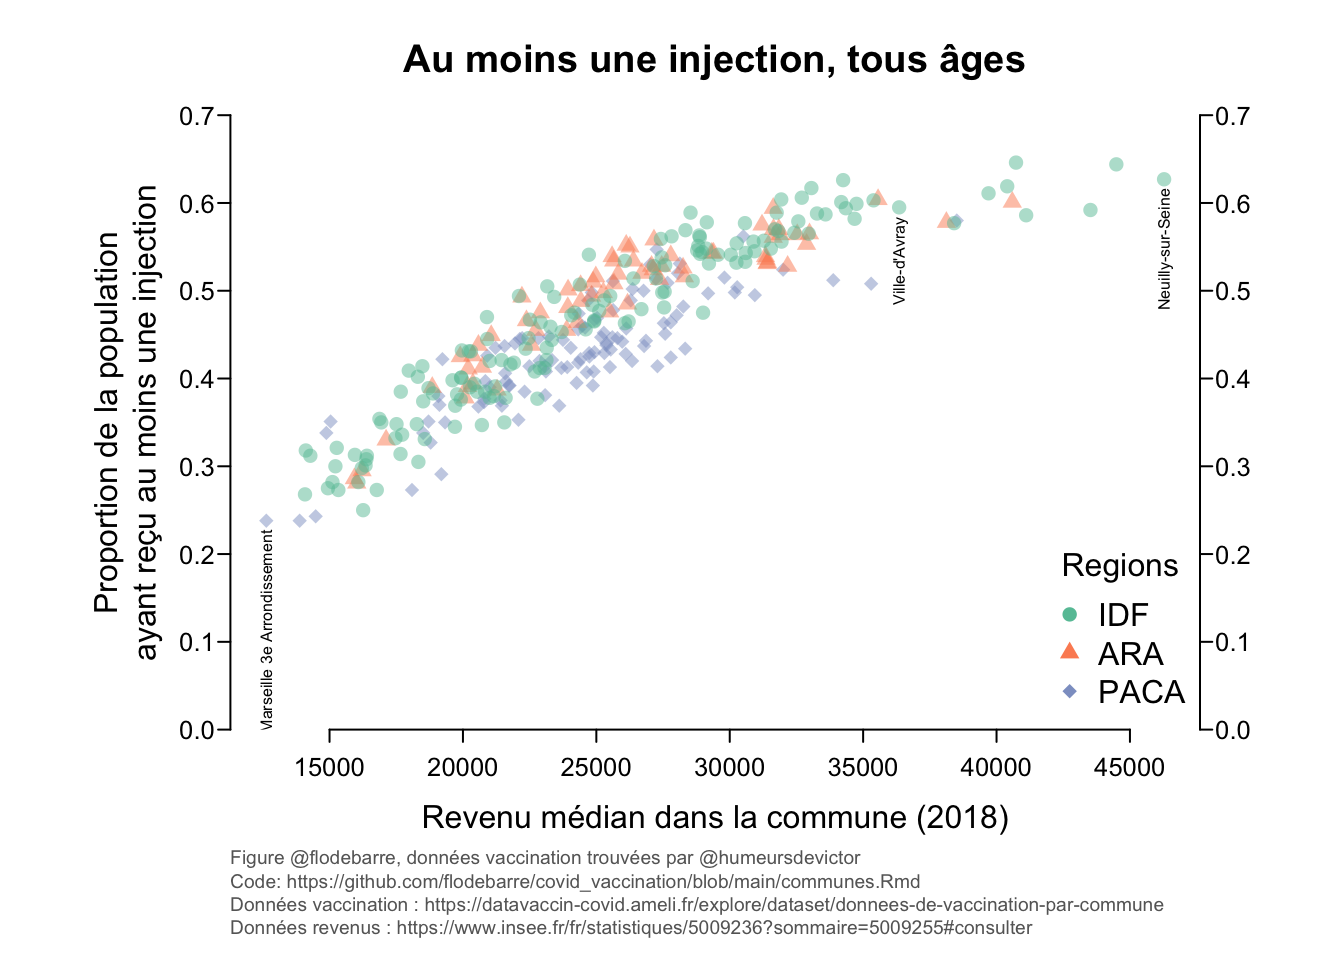
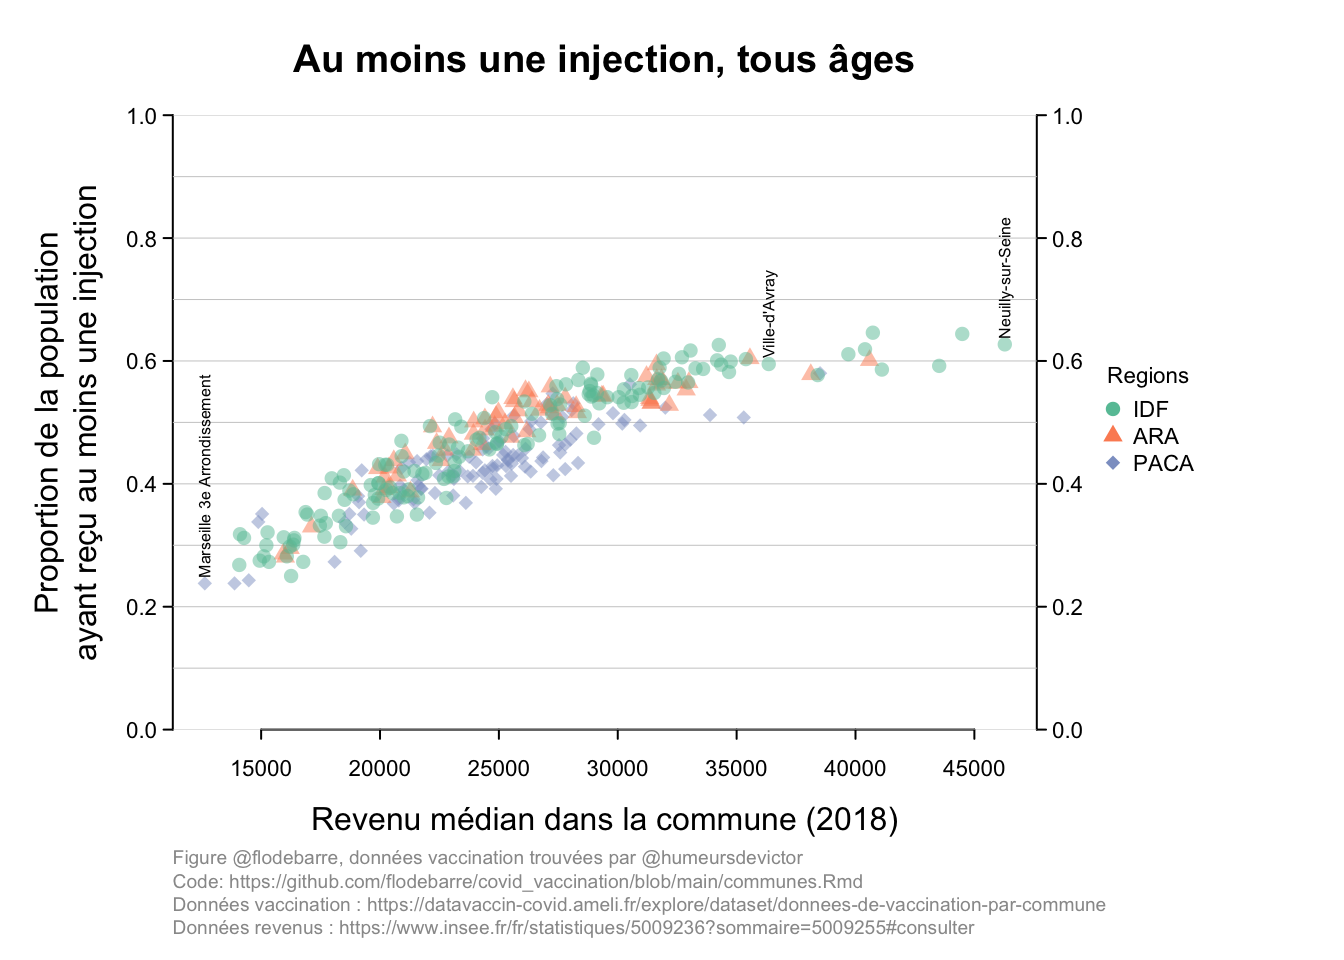
tweaks for better viz

diff --git a/communes.html b/communes.html
@@ -488,34 +488,57 @@ ndt.noregion$prdFin &lt;- predict(mdlFin.noregion, newdata = newdata.noregion, t
 </div>
 <div id="plot" class="section level2">
 <h2>Plot</h2>
-<pre class="r"><code>marWithDetails &lt;- c(6, 6, 3, 6.75)
+<pre class="r"><code>marWithDetails &lt;- c(6, 4.5, 3, 8)
 
 textDetails &lt;- &quot;Figure @flodebarre, données vaccination trouvées par @humeursdevictor
 Code: https://github.com/flodebarre/covid_vaccination/blob/main/communes.Rmd
 Données vaccination : https://datavaccin-covid.ameli.fr/explore/dataset/donnees-de-vaccination-par-commune
 Données revenus : https://www.insee.fr/fr/statistiques/5009236?sommaire=5009255#consulter&quot;</code></pre>
-<pre class="r"><code>cexA &lt;- 0.8</code></pre>
+<pre class="r"><code>cexA &lt;- 0.7 # Relative size of the tick labels
+
+thetck &lt;- -0.015 # tick size
+
+themgp &lt;- c(1.8, 0.4, 0) # mgp
+
+legx &lt;- 1.08*max(dat$med14_2018) # x position of the legend
+
+legy &lt;- 0.5
+
+cexleg &lt;- 0.7
+
+axpos &lt;- 0.99*min(dat$med14_2018) # xposition of the left axis</code></pre>
 <div id="tous-ages" class="section level3">
 <h3>Tous ages</h3>
 <pre class="r"><code>cla &lt;- &quot;Tout âge&quot;
-par(mar = marWithDetails - c(0, 0, 0, 3), las = 1, mgp = c(1.75, 0.4, 0), tck = -0.02)
+par(mar = marWithDetails, las = 1, mgp = themgp, tck = thetck)
 
-  subdat &lt;- dat[which(dat$libelle_classe_age == cla), ]
-  plot(subdat$med14_2018, subdat$taux_cumu_1_inj, 
-       ylim = c(0, 0.7), 
+subdat &lt;- dat[which(dat$libelle_classe_age == cla), ]
+
+# initialize plot
+plot(subdat$med14_2018, subdat$taux_cumu_1_inj, 
+       ylim = c(0, 1), 
        xlab = &quot;Revenu médian dans la commune (2018)&quot;, ylab = &quot;Proportion de la population
 ayant reçu au moins une injection&quot;, 
        yaxs = &quot;i&quot;, 
-       col = adjustcolor(colRegion[subdat$region], alpha.f = 0.5), 
-       pch = pchRegion[subdat$region],
-frame.plot = FALSE, axes = FALSE)
+frame.plot = FALSE, axes = FALSE, 
+type = &quot;n&quot;)
   axis(1, cex.axis = cexA)
   axis(2, cex.axis = cexA)
   axis(4, cex.axis = cexA)
   title(main = &quot;Au moins une injection, tous âges&quot;)
-  mtext(textDetails, side = 1, line = 4.5, cex = 0.6, adj = 0, col = gray(0.4))
-  legend(&quot;bottomright&quot;, legend = names(colRegion), col = colRegion, pch = pchRegion[names(colRegion)], bty = &quot;n&quot;, title = &quot;Regions&quot;)
+  mtext(textDetails, side = 1, line = 4.5, cex = 0.6, adj = 0, col = gray(0.6))
+par(xpd = FALSE)  
+for(i in seq(0, 1, by = 0.1)){
+  abline(h = i, lwd = 0.5, col = gray(0.8))
+}
   
+points(subdat$med14_2018, subdat$taux_cumu_1_inj, 
+              col = adjustcolor(colRegion[subdat$region], alpha.f = 0.5), 
+       pch = pchRegion[subdat$region],
+)
+  
+par(xpd = TRUE)
+legend(x = legx, y = legy, legend = names(colRegion), col = colRegion, pch = pchRegion[names(colRegion)], bty = &quot;n&quot;, title = &quot;Regions&quot;, xjust = 0, yjust = 0.5, cex = cexleg, pt.cex = 1)
   
 # Add legends
 x1 &lt;- max(dat$med14_2018)
@@ -529,15 +552,16 @@ x3 &lt;- unique(d3$med14_2018)
 
 dy &lt;- 0.01
 text(x = c(x1, x2, x3), 
-     y = c(as.numeric(d1[d1$classe_age == &quot;TOUT_AGE&quot;, &quot;taux_cumu_1_inj&quot;]), as.numeric(d2[d2$classe_age == &quot;TOUT_AGE&quot;, &quot;taux_cumu_1_inj&quot;]), as.numeric(d3[d3$classe_age == &quot;TOUT_AGE&quot;, &quot;taux_cumu_1_inj&quot;])) - dy, 
+     y = c(as.numeric(d1[d1$classe_age == &quot;TOUT_AGE&quot;, &quot;taux_cumu_1_inj&quot;]), as.numeric(d2[d2$classe_age == &quot;TOUT_AGE&quot;, &quot;taux_cumu_1_inj&quot;]), as.numeric(d3[d3$classe_age == &quot;TOUT_AGE&quot;, &quot;taux_cumu_1_inj&quot;])) + dy, 
      labels = c(d1[1, &quot;libelle_commune.x&quot;], d2[1, &quot;libelle_commune.x&quot;], d3[1, &quot;libelle_commune.x&quot;]), 
-     adj = c(1, 0.5), srt = 90, cex = 0.5)</code></pre>
+     adj = c(0, 0.5), srt = 90, cex = 0.5)</code></pre>
 <p><img src="communes_files/figure-html/unnamed-chunk-17-1.png" width="672" /></p>
+<pre class="r"><code>par(xpd = FALSE)  </code></pre>
 </div>
 <div id="au-moins-une-injection" class="section level3">
 <h3>Au moins une injection</h3>
 <p>(Pour faire les choses proprement il faudrait une boucle)</p>
-<pre class="r"><code>par(mar = marWithDetails, las = 1, mgp = c(1.75, 0.4, 0), tck = -0.02)
+<pre class="r"><code>par(mar = marWithDetails, las = 1, mgp = themgp, tck = thetck)
 alf &lt;- 0.4
 lwd.pred &lt;- 1.5
 
@@ -546,16 +570,17 @@ tmp &lt;- dat[which(dat$classe_age != &quot;TOUT_AGE&quot;),]
 
 plot(tmp$med14_2018, tmp$taux_cumu_1_inj, 
      xlab = &quot;Revenu médian dans la commune (2018)&quot;, ylab = &quot;Proportion de la classe d&#39;âge 
-ayant reçu au moins eu une injection&quot;, 
+ayant reçu au moins une injection&quot;, 
      yaxs = &quot;i&quot;, frame.plot = FALSE, ylim = c(0, 1),
      type = &quot;n&quot;, axes = FALSE
 )
 axis(1, cex.axis = cexA)
-axis(2, pos = 10200, cex.axis = cexA)
+axis(2, cex.axis = cexA)
 axis(4, cex.axis = cexA)
 
-par(xpd = FALSE)
 title(main = &quot;Au moins une injection, par classe d&#39;âge&quot;)
+
+par(xpd = FALSE)
 
 for(i in seq(0, 1, by = 0.1)){
   abline(h = i, lwd = 0.5, col = gray(0.8))
@@ -601,12 +626,13 @@ mns &lt;- aggregate(as.numeric(dat$taux_cumu_termine), by = list(dat$libelle_cla
 mns2 &lt;- mns[sort(mns$x, index.return = TRUE, decreasing = TRUE)$ix,]
 mns2 &lt;- mns2[mns2$Group.1 != &quot;Tout âge&quot;, ]
 
-legend(x = 1.05*max(tmp$med14_2018), y = 0.5, 
+# Legend
+legend(x = legx, y = legx, 
        legend = c(mns2$Group.1, names(pchRegion)), 
        col = c(colAge[mns2$Group.1], rep(gray(0.5), 3)), 
        pch = c(rep(NA, nrow(mns2)), pchRegion), 
        lwd = c(rep(lwd.pred, nrow(mns2)), rep(0, length(pchRegion))), 
-       bty = &quot;n&quot;, cex = 0.7, pt.cex = 1, xjust = 0, yjust = 0.5)
+       bty = &quot;n&quot;, cex = cexleg, pt.cex = 1, xjust = 0, yjust = 0.5)
 
 for(age in ages[ages!=&quot;Tout âge&quot;]){
   agcl &lt;- dic.ages[age] # Get corresponding age class
@@ -618,7 +644,7 @@ for(age in ages[ages!=&quot;Tout âge&quot;]){
 </div>
 <div id="vaccination-terminée" class="section level3">
 <h3>Vaccination terminée</h3>
-<pre class="r"><code>par(mar = marWithDetails, las = 1, mgp = c(1.75, 0.4, 0), tck = -0.02)
+<pre class="r"><code>par(mar = marWithDetails, las = 1, mgp = themgp, tck = thetck)
 
 plot(tmp$med14_2018, tmp$taux_cumu_termine, 
      xlab = &quot;Revenu médian dans la commune (2018)&quot;, ylab = &quot;Proportion de la classe d&#39;âge 
@@ -627,7 +653,7 @@ dont la vaccination est terminée&quot;,
      type = &quot;n&quot;, axes = FALSE
 )
 axis(1, cex.axis = cexA)
-axis(2, pos = 10200, cex.axis = cexA)
+axis(2, cex.axis = cexA)
 axis(4, cex.axis = cexA)
 
 par(xpd = FALSE)
@@ -677,12 +703,12 @@ mns &lt;- aggregate(as.numeric(dat$taux_cumu_termine), by = list(dat$libelle_cla
 mns2 &lt;- mns[sort(mns$x, index.return = TRUE, decreasing = TRUE)$ix,]
 mns2 &lt;- mns2[mns2$Group.1 != &quot;Tout âge&quot;, ]
 
-legend(x = 1.05*max(tmp$med14_2018), y = 0.5, 
+legend(x = 1.08*max(tmp$med14_2018), y = 0.5, 
        legend = c(mns2$Group.1, names(pchRegion)), 
        col = c(colAge[mns2$Group.1], rep(gray(0.5), 3)), 
        pch = c(rep(NA, nrow(mns2)), pchRegion), 
        lwd = c(rep(lwd.pred, nrow(mns2)), rep(0, length(pchRegion))), 
-       bty = &quot;n&quot;, cex = 0.7, pt.cex = 1, xjust = 0, yjust = 0.5)
+       bty = &quot;n&quot;, cex = cexleg, pt.cex = 1, xjust = 0, yjust = 0.5)
 
 
 
